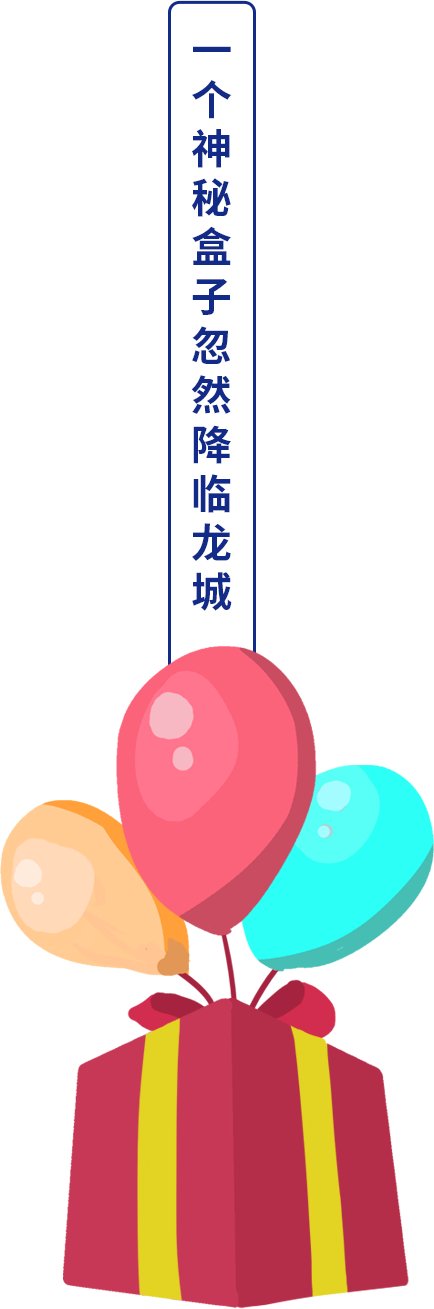
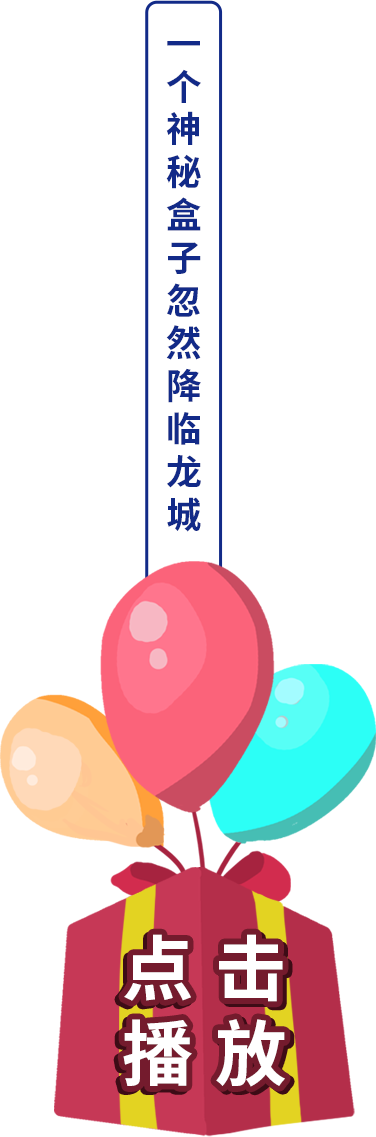
删除按钮 改了图片 加了禁止放大的功能

diff --git a/src/views/index.vue b/src/views/index.vue
@@ -46,7 +46,7 @@
 
             <img src="../assets/images/bj.jpg" style="width: 100%;height: auto;" @load="imgLoadEnd"/>
 
-            <img    src="../assets/images/gift.png" class="element" ref="star" style="width:50%;" :style="star">
+            <img    src="../assets/images/gift.png" class="element" ref="star" style="width:50%;pointer-events: auto;" :style="star" @click="setKg">
 
             <img src="../assets/images/dialogue1.png" class="element" ref="dialogue1" style="width:25%"
                  :style="dialogue1"/>
@@ -145,16 +145,16 @@
                 <img :class="this.gkd>97?'animate__animated animate__rotateInDownLeft':''" class="element"
                      v-show="this.gkd>97"
                      src="../assets/images/advertising4.png" style="left:17%;width:66%;height: auto;top:79.2%"/>
-                <div class="hint">{{kg ? '暂停' : '播放'}}</div>
-                <div class="loader1" @click="setKg">
-                    <div class="face">
-                        <div class="circle"></div>
-                    </div>
-                    <div class="face">
-                        <div class="circle"></div>
-                    </div>
-                </div>
-                  <div class="reminder">
+<!--                <div class="hint">{{kg ? '暂停' : '播放'}}</div>-->
+<!--                <div class="loader1" @click="setKg">-->
+<!--                    <div class="face">-->
+<!--                        <div class="circle"></div>-->
+<!--                    </div>-->
+<!--                    <div class="face">-->
+<!--                        <div class="circle"></div>-->
+<!--                    </div>-->
+<!--                </div>-->
+<!--                  <div class="reminder">-->
 
 
                       <img src="../assets/images/dian.gif" style="width: 5rem;height: auto;position: absolute"/></div>
@@ -216,6 +216,7 @@
             }
         },
         methods: {
+
             setKg() {
                 this.a = this.a === 1 ? 0 : this.a = 1;
                 this.kg = !this.kg
@@ -228,7 +229,8 @@
                     this.timer = setInterval(() => {
                         div.scrollTop += 2
                     }, 10)
-                } else {
+                }
+                else {
                     clearInterval(this.timer)
                 }
 
@@ -607,6 +609,7 @@
 <style scoped lang="scss">
     img {
         pointer-events: none; /* 禁止长按图片保存 */
+
     }
 
     .scroll {

diff --git a/public/index.html b/public/index.html
@@ -3,7 +3,7 @@
   <head>
     <meta charset="utf-8">
     <meta http-equiv="X-UA-Compatible" content="IE=edge">
-    <meta name="viewport" content="width=device-width,initial-scale=1.0">
+    <meta name="viewport" content="width=device-width,initial-scale=1.0,user-scalable=no">
     <link rel="icon" href="<%= BASE_URL %>favicon.ico">
     <title><%= htmlWebpackPlugin.options.title %></title>
   </head>
